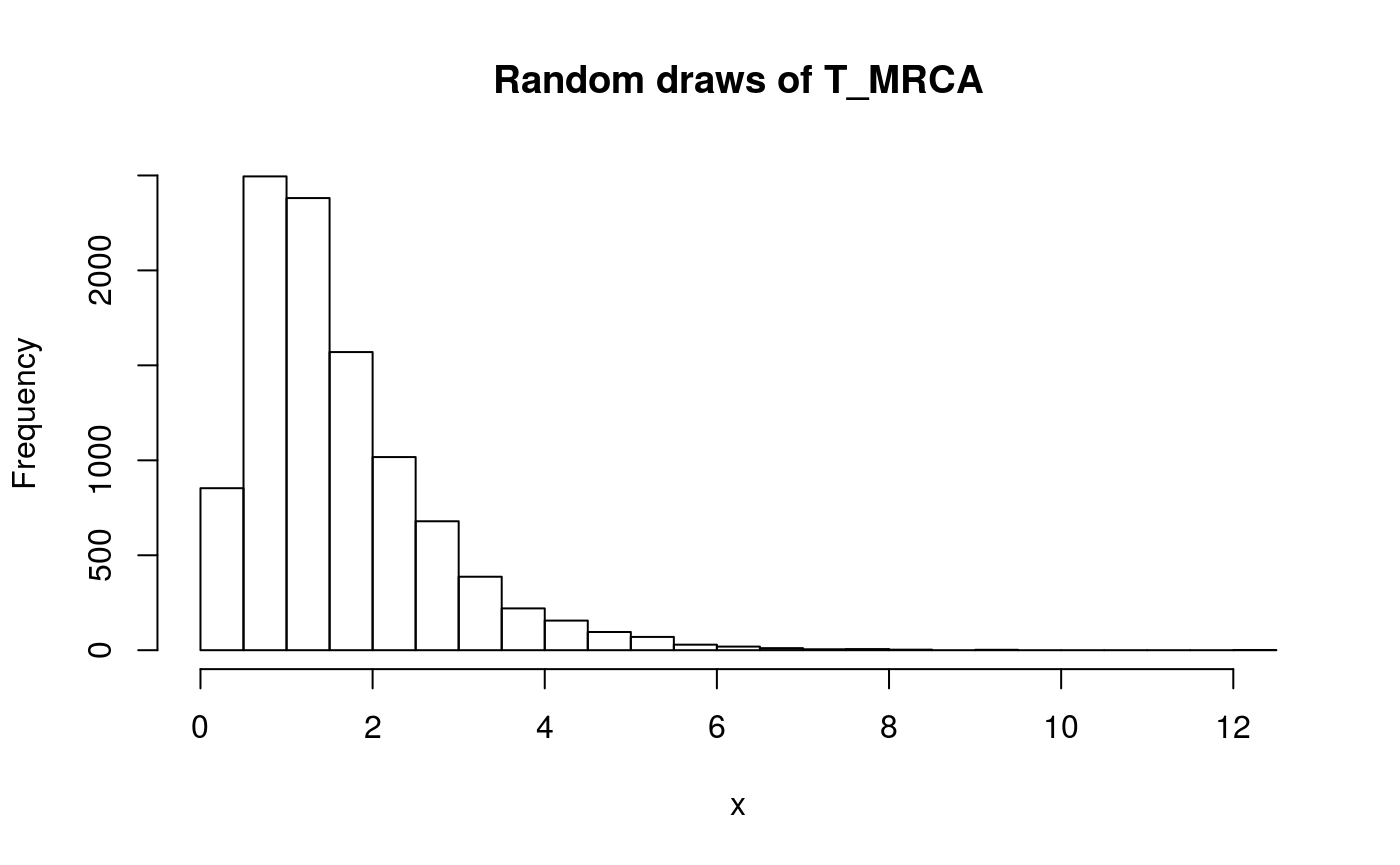
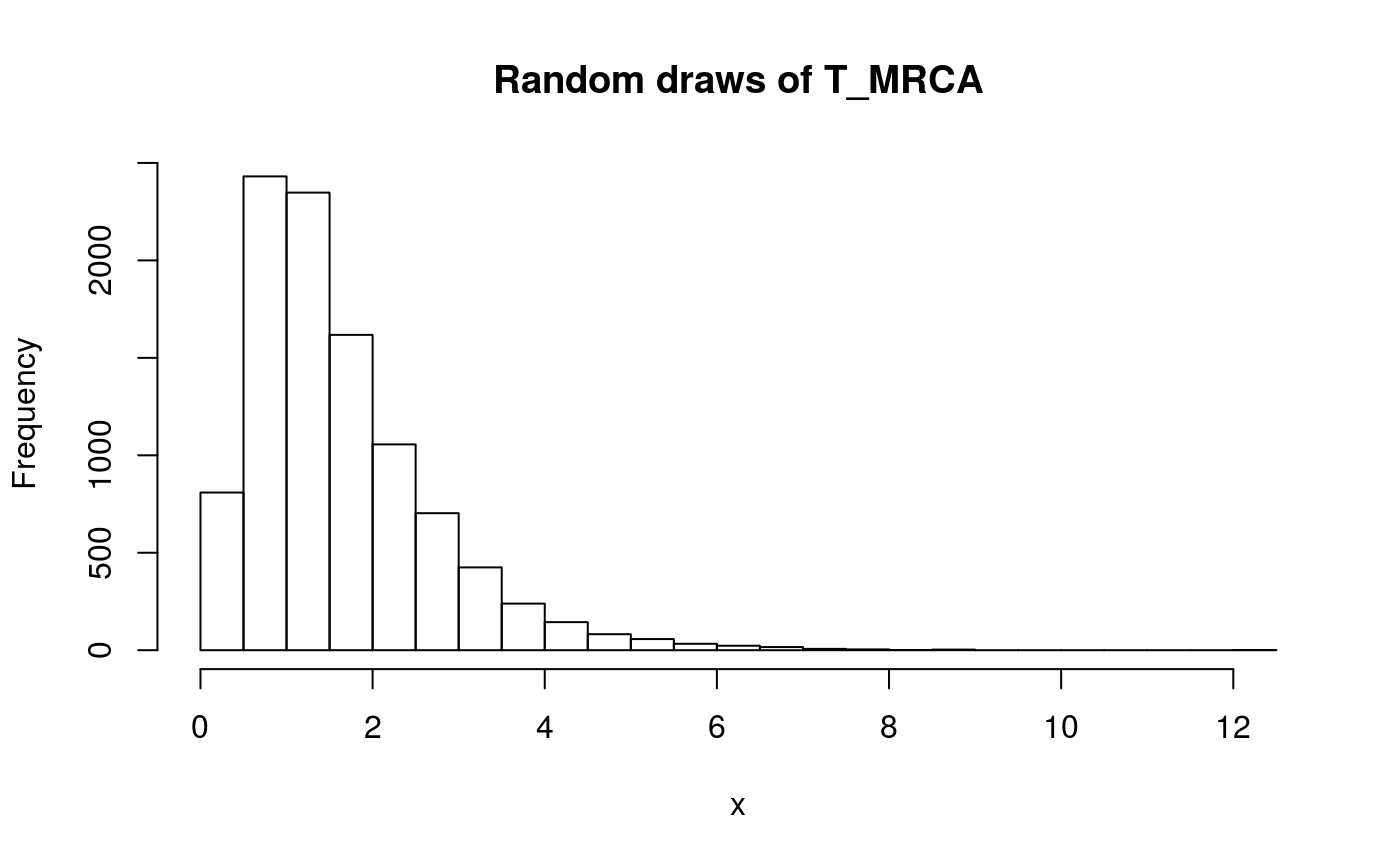
Updated get started following the vignette.

diff --git a/docs/articles/ticphasetype.html b/docs/articles/ticphasetype.html
@@ -82,17 +82,17 @@
     
 <div id="introduction-to-the-package" class="section level1">
 <h1 class="hasAnchor">
-<a href="#introduction-to-the-package" class="anchor"></a>Introduction to the package</h1>
+<a href="#introduction-to-the-package" class="anchor"></a>1. Introduction to the package</h1>
 <p><code>ticphasetype</code> is useful for representing classical statistics in population genetics by means of phase-type theory. This provides additional flexibility and efficiency for computing and understanding these statistics at the finest level. Do not hesitate to run <code><a href="../reference/ticphasetype-package.html">?ticphasetype</a></code> for a quick summary of the available functions, or to open the help files for the individual functions. There is also a brief description of both continuous and discrete phase-type distributions.</p>
 <div class="sourceCode" id="cb1"><pre class="sourceCode r"><code class="sourceCode r"><a class="sourceLine" id="cb1-1" data-line-number="1"><span class="kw"><a href="https://rdrr.io/r/base/library.html">library</a></span>(ticphasetype)</a></code></pre></div>
 </div>
 <div id="continuous-phase-type-distributions-t_mrca-and-t_total" class="section level1">
 <h1 class="hasAnchor">
-<a href="#continuous-phase-type-distributions-t_mrca-and-t_total" class="anchor"></a>Continuous phase-type distributions: <span class="math inline">\(T_{MRCA}\)</span> and <span class="math inline">\(T_{Total}\)</span>
+<a href="#continuous-phase-type-distributions-t_mrca-and-t_total" class="anchor"></a>2. Continuous phase-type distributions: <span class="math inline">\(T_{MRCA}\)</span> and <span class="math inline">\(T_{Total}\)</span>
 </h1>
 <div id="theoretical-background" class="section level2">
 <h2 class="hasAnchor">
-<a href="#theoretical-background" class="anchor"></a>Theoretical background</h2>
+<a href="#theoretical-background" class="anchor"></a>2.1. Theoretical background</h2>
 <p>In an evolutionary tree the time until two sequences coalesce <span class="math inline">\(T_i\)</span> can be measured in number of generations <span class="math inline">\(R_i\)</span> divided by the population size <span class="math inline">\(N\)</span>, this is, <span class="math inline">\(T_i=R_i/N\)</span>. <span class="math inline">\(T_i\)</span> can easily be proven to approximate to an exponential distribution with rate <span class="math inline">\(\binom{i}{2}\)</span>.</p>
 <p>In order to understand the evolutionary history of sequences two additional quantities can be defined –namely the time until the most recent common ancestor <span class="math inline">\(T_{MRCA}\)</span> and the total tree length <span class="math inline">\(T_{Total}\)</span>. <span class="math inline">\(T_{MRCA}\)</span> will simply be the sum of all times until two sequences coalesce, in other words <span class="math inline">\(T_{MRCA}=T_n+T_{n-1}+...+T_2\)</span>, where <span class="math inline">\(T_i\sim\text{exp}(\binom{i}{2})\)</span>. <span class="math inline">\(T_{Total}\)</span>, on the other hand, takes into account the length of all possible branches, so <span class="math inline">\(T_{Total}=nT_n+(n-1)T_{n-1}+...+2T_2\)</span> and, thus, <span class="math inline">\(iT_i\sim \text{exp}(\binom{i-1}{2})\)</span>.</p>
 <p>The mean and variance of these two quantities can be derived relatively easily. Defining their distribution, however, has proven to be more challenging since both <span class="math inline">\(T_{MRCA}\)</span> and <span class="math inline">\(T_{Total}\)</span> are sums of independent exponentially distributed variables with different rates. Their distribution can be computed as a series of convolutions, but their formulation, application and interpretation might be challenging for the average population geneticist.</p>
@@ -102,7 +102,7 @@
 </div>
 <div id="time-until-the-most-recent-common-ancestor-t_mrca" class="section level2">
 <h2 class="hasAnchor">
-<a href="#time-until-the-most-recent-common-ancestor-t_mrca" class="anchor"></a>Time until the most recent common ancestor (<span class="math inline">\(T_{MRCA}\)</span>)</h2>
+<a href="#time-until-the-most-recent-common-ancestor-t_mrca" class="anchor"></a>2.2. Time until the most recent common ancestor (<span class="math inline">\(T_{MRCA}\)</span>)</h2>
 <p>A <code>cont_phase_type</code> class representing a continuous phase-type distribution for <span class="math inline">\(T_{MRCA}\)</span> can be generated using <code><a href="../reference/cont_phase_type.html">cont_phase_type()</a></code>. For example, when <code>n</code>=5:</p>
 <div class="sourceCode" id="cb2"><pre class="sourceCode r"><code class="sourceCode r"><a class="sourceLine" id="cb2-1" data-line-number="1">T_MRCA_ph &lt;-<span class="st"> </span><span class="kw"><a href="../reference/t_mrca.html">t_mrca</a></span>(<span class="dt">n =</span> <span class="dv">5</span>)</a></code></pre></div>
 <p>There are a number of methods associated with the <code>cont_phase_type</code>, such as:</p>
@@ -132,7 +132,7 @@
 </div>
 <div id="total-tree-lenght-t_total" class="section level2">
 <h2 class="hasAnchor">
-<a href="#total-tree-lenght-t_total" class="anchor"></a>Total tree lenght (<span class="math inline">\(T_{Total}\)</span>)</h2>
+<a href="#total-tree-lenght-t_total" class="anchor"></a>2.3. Total tree lenght (<span class="math inline">\(T_{Total}\)</span>)</h2>
 <p><span class="math inline">\(T_{Total}\)</span> can also be represented using the <code>cont_phase_type</code> class:</p>
 <div class="sourceCode" id="cb6"><pre class="sourceCode r"><code class="sourceCode r"><a class="sourceLine" id="cb6-1" data-line-number="1">T_Total_ph &lt;-<span class="st"> </span><span class="kw"><a href="../reference/t_total.html">t_total</a></span>(<span class="dt">n =</span> <span class="dv">5</span>)</a></code></pre></div>
 <div class="sourceCode" id="cb7"><pre class="sourceCode r"><code class="sourceCode r"><a class="sourceLine" id="cb7-1" data-line-number="1"><span class="kw"><a href="https://rdrr.io/r/base/summary.html">summary</a></span>(T_Total_ph)</a>
@@ -157,7 +157,7 @@
 </div>
 <div id="user-defined-sub-intensity-matrix" class="section level2">
 <h2 class="hasAnchor">
-<a href="#user-defined-sub-intensity-matrix" class="anchor"></a>User-defined sub-intensity matrix</h2>
+<a href="#user-defined-sub-intensity-matrix" class="anchor"></a>2.4. User-defined sub-intensity matrix</h2>
 <p>Moreover, the height of an evolutionary tree can also be represented by a user-defined sub-intensity matrix. This is specially useful if the model does not follow Kingman’s n–coalescent, but other coalescent models such as the psi-coalescent or the beta-coalescent. As an example, an arbitrary sub-intensity matrix can be generated:</p>
 <div class="sourceCode" id="cb8"><pre class="sourceCode r"><code class="sourceCode r"><a class="sourceLine" id="cb8-1" data-line-number="1">n=<span class="dv">5</span></a>
 <a class="sourceLine" id="cb8-2" data-line-number="2">subint_arbit &lt;-<span class="st"> </span><span class="kw"><a href="https://rdrr.io/r/base/matrix.html">matrix</a></span>(<span class="dv">0</span>, <span class="dt">nrow =</span> n<span class="dv">-1</span>, <span class="dt">ncol =</span> n<span class="dv">-1</span>)</a>
@@ -173,11 +173,11 @@
 <a class="sourceLine" id="cb8-12" data-line-number="12"></a>
 <a class="sourceLine" id="cb8-13" data-line-number="13">subint_arbit[n<span class="dv">-1</span>,n<span class="dv">-1</span>] &lt;-<span class="st"> </span><span class="dv">-1</span></a></code></pre></div>
 <div class="sourceCode" id="cb9"><pre class="sourceCode r"><code class="sourceCode r"><a class="sourceLine" id="cb9-1" data-line-number="1">subint_arbit</a>
-<a class="sourceLine" id="cb9-2" data-line-number="2"><span class="co">#&gt;           [,1]     [,2]      [,3]      [,4]</span></a>
-<a class="sourceLine" id="cb9-3" data-line-number="3"><span class="co">#&gt; [1,] -14.76009  3.07134  8.627879  3.060869</span></a>
-<a class="sourceLine" id="cb9-4" data-line-number="4"><span class="co">#&gt; [2,]   0.00000 -5.20337  4.130822  1.072549</span></a>
-<a class="sourceLine" id="cb9-5" data-line-number="5"><span class="co">#&gt; [3,]   0.00000  0.00000 -4.982667  4.982667</span></a>
-<a class="sourceLine" id="cb9-6" data-line-number="6"><span class="co">#&gt; [4,]   0.00000  0.00000  0.000000 -1.000000</span></a></code></pre></div>
+<a class="sourceLine" id="cb9-2" data-line-number="2"><span class="co">#&gt;           [,1]      [,2]      [,3]      [,4]</span></a>
+<a class="sourceLine" id="cb9-3" data-line-number="3"><span class="co">#&gt; [1,] -15.52806  7.532991  3.439928  4.555136</span></a>
+<a class="sourceLine" id="cb9-4" data-line-number="4"><span class="co">#&gt; [2,]   0.00000 -5.571791  4.295188  1.276603</span></a>
+<a class="sourceLine" id="cb9-5" data-line-number="5"><span class="co">#&gt; [3,]   0.00000  0.000000 -8.258736  8.258736</span></a>
+<a class="sourceLine" id="cb9-6" data-line-number="6"><span class="co">#&gt; [4,]   0.00000  0.000000  0.000000 -1.000000</span></a></code></pre></div>
 <p>This matrix can be supplied to the <code><a href="../reference/cont_phase_type.html">cont_phase_type()</a></code> generator function, together with optional initial probabilities:</p>
 <div class="sourceCode" id="cb10"><pre class="sourceCode r"><code class="sourceCode r"><a class="sourceLine" id="cb10-1" data-line-number="1">T_arbit_ph &lt;-<span class="st"> </span><span class="kw"><a href="../reference/cont_phase_type.html">cont_phase_type</a></span>(<span class="dt">subint_mat =</span> subint_arbit)</a>
 <a class="sourceLine" id="cb10-2" data-line-number="2"><span class="co">#&gt; Warning in cont_phase_type(subint_mat = subint_arbit): The initial</span></a>
@@ -187,11 +187,11 @@
 <div class="sourceCode" id="cb11"><pre class="sourceCode r"><code class="sourceCode r"><a class="sourceLine" id="cb11-1" data-line-number="1"><span class="kw"><a href="https://rdrr.io/r/base/summary.html">summary</a></span>(T_arbit_ph)</a>
 <a class="sourceLine" id="cb11-2" data-line-number="2"><span class="co">#&gt; </span></a>
 <a class="sourceLine" id="cb11-3" data-line-number="3"><span class="co">#&gt; Subintensity matrix:</span></a>
-<a class="sourceLine" id="cb11-4" data-line-number="4"><span class="co">#&gt;           [,1]     [,2]      [,3]      [,4]</span></a>
-<a class="sourceLine" id="cb11-5" data-line-number="5"><span class="co">#&gt; [1,] -14.76009  3.07134  8.627879  3.060869</span></a>
-<a class="sourceLine" id="cb11-6" data-line-number="6"><span class="co">#&gt; [2,]   0.00000 -5.20337  4.130822  1.072549</span></a>
-<a class="sourceLine" id="cb11-7" data-line-number="7"><span class="co">#&gt; [3,]   0.00000  0.00000 -4.982667  4.982667</span></a>
-<a class="sourceLine" id="cb11-8" data-line-number="8"><span class="co">#&gt; [4,]   0.00000  0.00000  0.000000 -1.000000</span></a>
+<a class="sourceLine" id="cb11-4" data-line-number="4"><span class="co">#&gt;           [,1]      [,2]      [,3]      [,4]</span></a>
+<a class="sourceLine" id="cb11-5" data-line-number="5"><span class="co">#&gt; [1,] -15.52806  7.532991  3.439928  4.555136</span></a>
+<a class="sourceLine" id="cb11-6" data-line-number="6"><span class="co">#&gt; [2,]   0.00000 -5.571791  4.295188  1.276603</span></a>
+<a class="sourceLine" id="cb11-7" data-line-number="7"><span class="co">#&gt; [3,]   0.00000  0.000000 -8.258736  8.258736</span></a>
+<a class="sourceLine" id="cb11-8" data-line-number="8"><span class="co">#&gt; [4,]   0.00000  0.000000  0.000000 -1.000000</span></a>
 <a class="sourceLine" id="cb11-9" data-line-number="9"><span class="co">#&gt; </span></a>
 <a class="sourceLine" id="cb11-10" data-line-number="10"><span class="co">#&gt; Initial probabilities:</span></a>
 <a class="sourceLine" id="cb11-11" data-line-number="11"><span class="co">#&gt;      [,1] [,2] [,3] [,4]</span></a>
@@ -200,13 +200,13 @@
 <a class="sourceLine" id="cb11-14" data-line-number="14"><span class="co">#&gt; Defect:</span></a>
 <a class="sourceLine" id="cb11-15" data-line-number="15"><span class="co">#&gt; [1] 0</span></a>
 <a class="sourceLine" id="cb11-16" data-line-number="16"><span class="co">#&gt; </span></a>
-<a class="sourceLine" id="cb11-17" data-line-number="17"><span class="co">#&gt; Mean: 1.258209</span></a>
+<a class="sourceLine" id="cb11-17" data-line-number="17"><span class="co">#&gt; Mean: 1.223573</span></a>
 <a class="sourceLine" id="cb11-18" data-line-number="18"><span class="co">#&gt; </span></a>
-<a class="sourceLine" id="cb11-19" data-line-number="19"><span class="co">#&gt; Variance: 1.056826</span></a></code></pre></div>
+<a class="sourceLine" id="cb11-19" data-line-number="19"><span class="co">#&gt; Variance: 1.04378</span></a></code></pre></div>
 </div>
 <div id="density-distribution-and-quantile-functions" class="section level2">
 <h2 class="hasAnchor">
-<a href="#density-distribution-and-quantile-functions" class="anchor"></a>Density, distribution and quantile functions</h2>
+<a href="#density-distribution-and-quantile-functions" class="anchor"></a>2.5. Density, distribution and quantile functions</h2>
 <p><code>ticphasetype</code> also includes the density function (<code><a href="../reference/dphtype.html">dphtype()</a></code>), quantile function (<code><a href="../reference/dphtype.html">qphtype()</a></code>), distribution function (<code><a href="../reference/dphtype.html">pphtype()</a></code>) and random draw generator (<code><a href="../reference/dphtype.html">rphtype()</a></code>) for the continuous phase-type distribution:</p>
 <div class="sourceCode" id="cb12"><pre class="sourceCode r"><code class="sourceCode r"><a class="sourceLine" id="cb12-1" data-line-number="1"><span class="kw"><a href="../reference/dphtype.html">dphtype</a></span>(<span class="fl">0.5</span>, T_MRCA_ph)</a>
 <a class="sourceLine" id="cb12-2" data-line-number="2"><span class="co">#&gt; [1] 0.4013376</span></a></code></pre></div>
@@ -233,7 +233,7 @@
 <a class="sourceLine" id="cb17-5" data-line-number="5"><span class="kw"><a href="https://rdrr.io/r/graphics/title.html">title</a></span>(<span class="st">'Distribution function of T_MRCA'</span>)</a></code></pre></div>
 <p><img src="ticphasetype_files/figure-html/unnamed-chunk-17-1.png" width="700"></p>
 <div class="sourceCode" id="cb18"><pre class="sourceCode r"><code class="sourceCode r"><a class="sourceLine" id="cb18-1" data-line-number="1"><span class="kw"><a href="../reference/dphtype.html">rphtype</a></span>(<span class="dv">3</span>, T_MRCA_ph)</a>
-<a class="sourceLine" id="cb18-2" data-line-number="2"><span class="co">#&gt; [1] 1.5811542 0.1840773 2.2946099</span></a></code></pre></div>
+<a class="sourceLine" id="cb18-2" data-line-number="2"><span class="co">#&gt; [1] 0.9061477 1.1947156 1.6640659</span></a></code></pre></div>
 <div class="sourceCode" id="cb19"><pre class="sourceCode r"><code class="sourceCode r"><a class="sourceLine" id="cb19-1" data-line-number="1">x &lt;-<span class="st"> </span><span class="kw"><a href="../reference/dphtype.html">rphtype</a></span>(<span class="dv">10000</span>, T_MRCA_ph)</a>
 <a class="sourceLine" id="cb19-2" data-line-number="2"><span class="kw"><a href="https://rdrr.io/r/graphics/hist.html">hist</a></span>(x, <span class="dt">main =</span> <span class="st">'Random draws of T_MRCA'</span>, <span class="dt">breaks=</span><span class="dv">20</span>)</a></code></pre></div>
 <p><img src="ticphasetype_files/figure-html/unnamed-chunk-19-1.png" width="700"></p>
@@ -241,11 +241,11 @@
 </div>
 <div id="discrete-phase-type-distributions-s_total-xi_i-and-xi_k" class="section level1">
 <h1 class="hasAnchor">
-<a href="#discrete-phase-type-distributions-s_total-xi_i-and-xi_k" class="anchor"></a>Discrete Phase-Type Distributions: <span class="math inline">\(S_{total}\)</span>, <span class="math inline">\(\xi_i\)</span> and <span class="math inline">\(\xi_{k+}\)</span>
+<a href="#discrete-phase-type-distributions-s_total-xi_i-and-xi_k" class="anchor"></a>3. Discrete Phase-Type Distributions: <span class="math inline">\(S_{total}\)</span>, <span class="math inline">\(\xi_i\)</span> and <span class="math inline">\(\xi_{k+}\)</span>
 </h1>
 <div id="theoretical-background-1" class="section level2">
 <h2 class="hasAnchor">
-<a href="#theoretical-background-1" class="anchor"></a>Theoretical background</h2>
+<a href="#theoretical-background-1" class="anchor"></a>3.1. Theoretical background</h2>
 <p>Some quantities in population genomics are discrete, such as the total number of segregating sites <span class="math inline">\(S_{total}\)</span> or other statistics related to the site-frequency spectrum (singletons, doubletons, tail statistic, etc.). Representing the site-frequency spectrum, or SFS, can be challenging if the sample size is large, if the data does not follow Kingman’s coalescence or if we are trying to estimate the mutation parameter <span class="math inline">\(\theta\)</span> using non-standard estimators.</p>
 <p>Luckily, all these quantities can be represented using discrete phase-type theory. Similar to the continuous phase-type distribution being a generalization of exponentially distributed variables, the discrete phase-type distribution can be seen as a generalization of various geometric distributions. Each state in the continuous phase-type distribution will represent a stochastic process, such that the time until absorption of a random variable (<span class="math inline">\(\tau\)</span>) follows an absorbing Markov chain. In this case we say that <span class="math inline">\(\tau+1\sim DPH(\pi, T)\)</span>, where <span class="math inline">\(T\)</span> is the sub-intensity matrix that gathers the transition rates and <span class="math inline">\(\pi\)</span> is the vector of initial probabilities.</p>
 <p>The discrete phase-type representation of <span class="math inline">\(S_{total}\)</span> can be built from the continuous phase-type representation of the total branch length. Folllowing theorem 3.5 in Hobolth et. al (2019), the total branch length can be discretized if the mutation parameter <span class="math inline">\(\theta\)</span> is supplied.</p>
@@ -257,7 +257,7 @@
 </div>
 <div id="total-number-of-segregating-sites-s_total" class="section level2">
 <h2 class="hasAnchor">
-<a href="#total-number-of-segregating-sites-s_total" class="anchor"></a>Total number of segregating sites (<span class="math inline">\(S_{total}\)</span>)</h2>
+<a href="#total-number-of-segregating-sites-s_total" class="anchor"></a>3.2. Total number of segregating sites (<span class="math inline">\(S_{total}\)</span>)</h2>
 <p>The total number of segregating sites can be represented using a <code>disc_phase_type</code> class, this is, by means of a discrete phase-type distribution. For example, when <code>n</code>=4:</p>
 <div class="sourceCode" id="cb20"><pre class="sourceCode r"><code class="sourceCode r"><a class="sourceLine" id="cb20-1" data-line-number="1">stotal_ph =<span class="st"> </span><span class="kw"><a href="../reference/segsites.html">segsites</a></span>(<span class="dv">4</span>, <span class="dt">theta =</span> <span class="dv">2</span>)</a>
 <a class="sourceLine" id="cb20-2" data-line-number="2"><span class="kw"><a href="https://rdrr.io/r/base/summary.html">summary</a></span>(stotal_ph)</a>
@@ -292,7 +292,7 @@
 </div>
 <div id="i-tons-xi_i" class="section level2">
 <h2 class="hasAnchor">
-<a href="#i-tons-xi_i" class="anchor"></a>i-tons (<span class="math inline">\(\xi_i\)</span>)</h2>
+<a href="#i-tons-xi_i" class="anchor"></a>3.3. i-tons (<span class="math inline">\(\xi_i\)</span>)</h2>
 <p>The i-tons <span class="math inline">\(\xi_i\)</span> can also be represented using a discrete phase-type distribution. First, we will define the coalescent process as a continuous phase-type distribution:</p>
 <div class="sourceCode" id="cb22"><pre class="sourceCode r"><code class="sourceCode r"><a class="sourceLine" id="cb22-1" data-line-number="1">coalescent &lt;-<span class="st"> </span><span class="kw"><a href="../reference/kingsman.html">kingsman</a></span>(<span class="dv">6</span>)</a></code></pre></div>
 <p>The <code><a href="../reference/kingsman.html">kingsman()</a></code> function returns a <code>mult_phase_type</code> object which is a continuous phase-type distribution with a reward matrix <code>RewardM</code>, for later reward-transformation and discretization.</p>
@@ -319,7 +319,7 @@
 </div>
 <div id="tail-statistic-xi_k" class="section level2">
 <h2 class="hasAnchor">
-<a href="#tail-statistic-xi_k" class="anchor"></a>Tail-statistic (<span class="math inline">\(\xi_{k+}\)</span>)</h2>
+<a href="#tail-statistic-xi_k" class="anchor"></a>3.4. Tail-statistic (<span class="math inline">\(\xi_{k+}\)</span>)</h2>
 <p>In <code>ticphasetype</code> the tail statistic is implemented using the coalescent and the <code><a href="../reference/tailstat.html">tailstat()</a></code> function. For example, <span class="math inline">\(\xi_{3+}\)</span> when <code>n</code>=5:</p>
 <div class="sourceCode" id="cb24"><pre class="sourceCode r"><code class="sourceCode r"><a class="sourceLine" id="cb24-1" data-line-number="1">coalescent &lt;-<span class="st"> </span><span class="kw"><a href="../reference/kingsman.html">kingsman</a></span>(<span class="dv">5</span>)</a>
 <a class="sourceLine" id="cb24-2" data-line-number="2"><span class="kw"><a href="https://rdrr.io/r/base/summary.html">summary</a></span>(<span class="kw"><a href="../reference/tailstat.html">tailstat</a></span>(coalescent, <span class="dt">k =</span> <span class="dv">3</span>, <span class="dt">theta =</span> <span class="dv">2</span>))</a>
@@ -343,12 +343,12 @@
 </div>
 <div id="user-defined-sub-intensity-matrix-1" class="section level2">
 <h2 class="hasAnchor">
-<a href="#user-defined-sub-intensity-matrix-1" class="anchor"></a>User-defined sub-intensity matrix</h2>
+<a href="#user-defined-sub-intensity-matrix-1" class="anchor"></a>3.5. User-defined sub-intensity matrix</h2>
 <p>As with the class <code>cont_phase_type</code>, using the <code><a href="../reference/disc_phase_type.html">disc_phase_type()</a></code> generator the user can specify the sub-intensity matrix, with optional initial probabilities (see <code><a href="../reference/disc_phase_type.html">?disc_phase_type</a></code> for further information).</p>
 </div>
 <div id="density-distribution-and-quantile-functions-1" class="section level2">
 <h2 class="hasAnchor">
-<a href="#density-distribution-and-quantile-functions-1" class="anchor"></a>Density, distribution and quantile functions</h2>
+<a href="#density-distribution-and-quantile-functions-1" class="anchor"></a>3.6. Density, distribution and quantile functions</h2>
 <p><code>ticphasetype</code> also contains the density function (<code><a href="../reference/dphtype.html">dphtype()</a></code>), quantile function (<code><a href="../reference/dphtype.html">qphtype()</a></code>), distribution function (<code><a href="../reference/dphtype.html">pphtype()</a></code>) and random draw generator (<code><a href="../reference/dphtype.html">rphtype()</a></code>) for the discrete phase-type distribution. For example, for <span class="math inline">\(S_{total}\)</span> when <span class="math inline">\(\theta=3\)</span>:</p>
 <div class="sourceCode" id="cb25"><pre class="sourceCode r"><code class="sourceCode r"><a class="sourceLine" id="cb25-1" data-line-number="1">S_tot_ph &lt;-<span class="st"> </span><span class="kw"><a href="../reference/segsites.html">segsites</a></span>(<span class="dv">10</span>, <span class="dt">theta =</span> <span class="dv">3</span>)</a>
 <a class="sourceLine" id="cb25-2" data-line-number="2"><span class="kw"><a href="https://rdrr.io/r/base/summary.html">summary</a></span>(S_tot_ph)</a>
@@ -408,7 +408,7 @@
 <a class="sourceLine" id="cb31-5" data-line-number="5"><span class="kw"><a href="https://rdrr.io/r/graphics/title.html">title</a></span>(<span class="st">'Quantile function of S_total with theta=3 and n=10'</span>)</a></code></pre></div>
 <p><img src="ticphasetype_files/figure-html/unnamed-chunk-31-1.png" width="700"></p>
 <div class="sourceCode" id="cb32"><pre class="sourceCode r"><code class="sourceCode r"><a class="sourceLine" id="cb32-1" data-line-number="1"><span class="kw"><a href="../reference/dphtype.html">rphtype</a></span>(<span class="dv">3</span>, S_tot_ph)</a>
-<a class="sourceLine" id="cb32-2" data-line-number="2"><span class="co">#&gt; [1] 5 8 8</span></a></code></pre></div>
+<a class="sourceLine" id="cb32-2" data-line-number="2"><span class="co">#&gt; [1]  4  5 12</span></a></code></pre></div>
 <div class="sourceCode" id="cb33"><pre class="sourceCode r"><code class="sourceCode r"><a class="sourceLine" id="cb33-1" data-line-number="1">x &lt;-<span class="st"> </span><span class="kw"><a href="../reference/dphtype.html">rphtype</a></span>(<span class="dv">10000</span>, S_tot_ph)</a>
 <a class="sourceLine" id="cb33-2" data-line-number="2"><span class="kw"><a href="https://rdrr.io/r/graphics/hist.html">hist</a></span>(x, <span class="dt">main =</span> <span class="st">'Random draws of S_total with theta=3 and n=10'</span>, <span class="dt">breaks=</span><span class="dv">20</span>)</a></code></pre></div>
 <p><img src="ticphasetype_files/figure-html/unnamed-chunk-33-1.png" width="700"></p>
@@ -422,24 +422,24 @@
       <h2 class="hasAnchor">
 <a href="#tocnav" class="anchor"></a>Contents</h2>
       <ul class="nav nav-pills nav-stacked">
-<li><a href="#introduction-to-the-package">Introduction to the package</a></li>
+<li><a href="#introduction-to-the-package">1. Introduction to the package</a></li>
       <li>
-<a href="#continuous-phase-type-distributions-t_mrca-and-t_total">Continuous phase-type distributions: <span class="math inline">\(T_{MRCA}\)</span> and <span class="math inline">\(T_{Total}\)</span></a><ul class="nav nav-pills nav-stacked">
-<li><a href="#theoretical-background">Theoretical background</a></li>
-      <li><a href="#time-until-the-most-recent-common-ancestor-t_mrca">Time until the most recent common ancestor (<span class="math inline">\(T_{MRCA}\)</span>)</a></li>
-      <li><a href="#total-tree-lenght-t_total">Total tree lenght (<span class="math inline">\(T_{Total}\)</span>)</a></li>
-      <li><a href="#user-defined-sub-intensity-matrix">User-defined sub-intensity matrix</a></li>
-      <li><a href="#density-distribution-and-quantile-functions">Density, distribution and quantile functions</a></li>
+<a href="#continuous-phase-type-distributions-t_mrca-and-t_total">2. Continuous phase-type distributions: <span class="math inline">\(T_{MRCA}\)</span> and <span class="math inline">\(T_{Total}\)</span></a><ul class="nav nav-pills nav-stacked">
+<li><a href="#theoretical-background">2.1. Theoretical background</a></li>
+      <li><a href="#time-until-the-most-recent-common-ancestor-t_mrca">2.2. Time until the most recent common ancestor (<span class="math inline">\(T_{MRCA}\)</span>)</a></li>
+      <li><a href="#total-tree-lenght-t_total">2.3. Total tree lenght (<span class="math inline">\(T_{Total}\)</span>)</a></li>
+      <li><a href="#user-defined-sub-intensity-matrix">2.4. User-defined sub-intensity matrix</a></li>
+      <li><a href="#density-distribution-and-quantile-functions">2.5. Density, distribution and quantile functions</a></li>
       </ul>
 </li>
       <li>
-<a href="#discrete-phase-type-distributions-s_total-xi_i-and-xi_k">Discrete Phase-Type Distributions: <span class="math inline">\(S_{total}\)</span>, <span class="math inline">\(\xi_i\)</span> and <span class="math inline">\(\xi_{k+}\)</span></a><ul class="nav nav-pills nav-stacked">
-<li><a href="#theoretical-background-1">Theoretical background</a></li>
-      <li><a href="#total-number-of-segregating-sites-s_total">Total number of segregating sites (<span class="math inline">\(S_{total}\)</span>)</a></li>
-      <li><a href="#i-tons-xi_i">i-tons (<span class="math inline">\(\xi_i\)</span>)</a></li>
-      <li><a href="#tail-statistic-xi_k">Tail-statistic (<span class="math inline">\(\xi_{k+}\)</span>)</a></li>
-      <li><a href="#user-defined-sub-intensity-matrix-1">User-defined sub-intensity matrix</a></li>
-      <li><a href="#density-distribution-and-quantile-functions-1">Density, distribution and quantile functions</a></li>
+<a href="#discrete-phase-type-distributions-s_total-xi_i-and-xi_k">3. Discrete Phase-Type Distributions: <span class="math inline">\(S_{total}\)</span>, <span class="math inline">\(\xi_i\)</span> and <span class="math inline">\(\xi_{k+}\)</span></a><ul class="nav nav-pills nav-stacked">
+<li><a href="#theoretical-background-1">3.1. Theoretical background</a></li>
+      <li><a href="#total-number-of-segregating-sites-s_total">3.2. Total number of segregating sites (<span class="math inline">\(S_{total}\)</span>)</a></li>
+      <li><a href="#i-tons-xi_i">3.3. i-tons (<span class="math inline">\(\xi_i\)</span>)</a></li>
+      <li><a href="#tail-statistic-xi_k">3.4. Tail-statistic (<span class="math inline">\(\xi_{k+}\)</span>)</a></li>
+      <li><a href="#user-defined-sub-intensity-matrix-1">3.5. User-defined sub-intensity matrix</a></li>
+      <li><a href="#density-distribution-and-quantile-functions-1">3.6. Density, distribution and quantile functions</a></li>
       </ul>
 </li>
       </ul>
